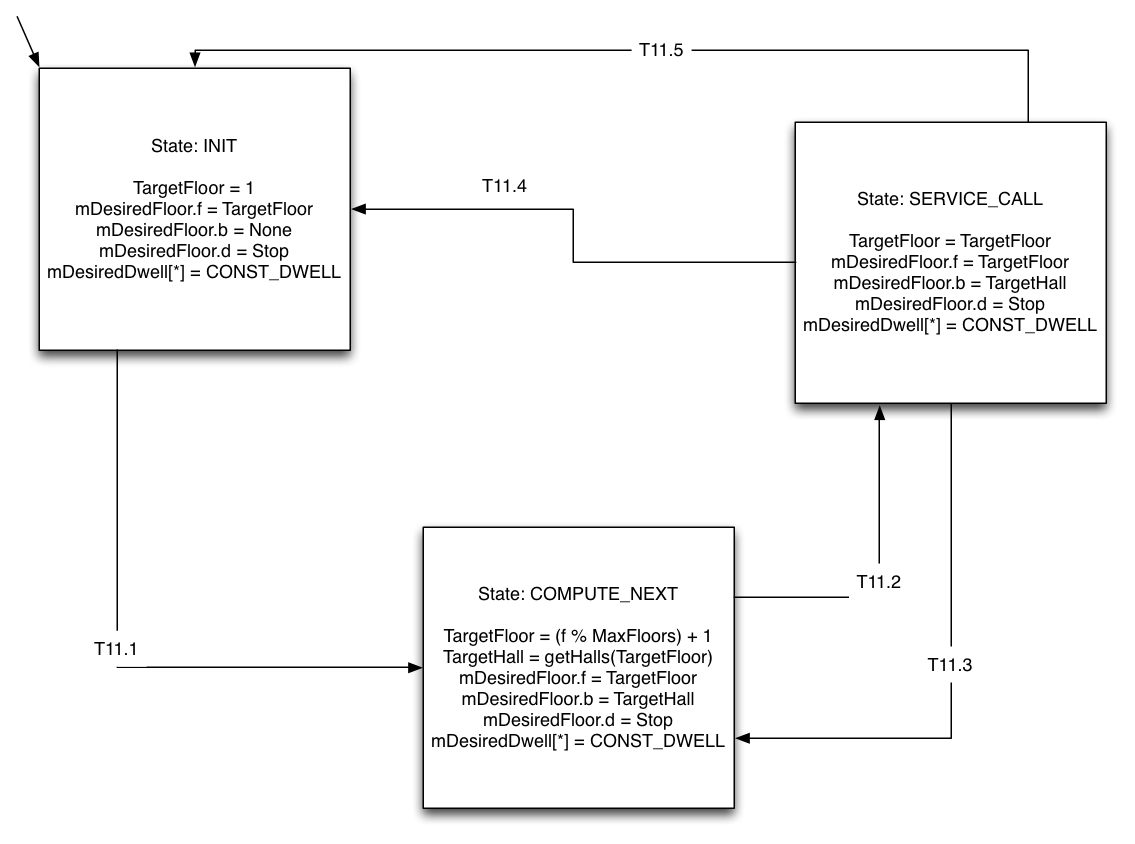
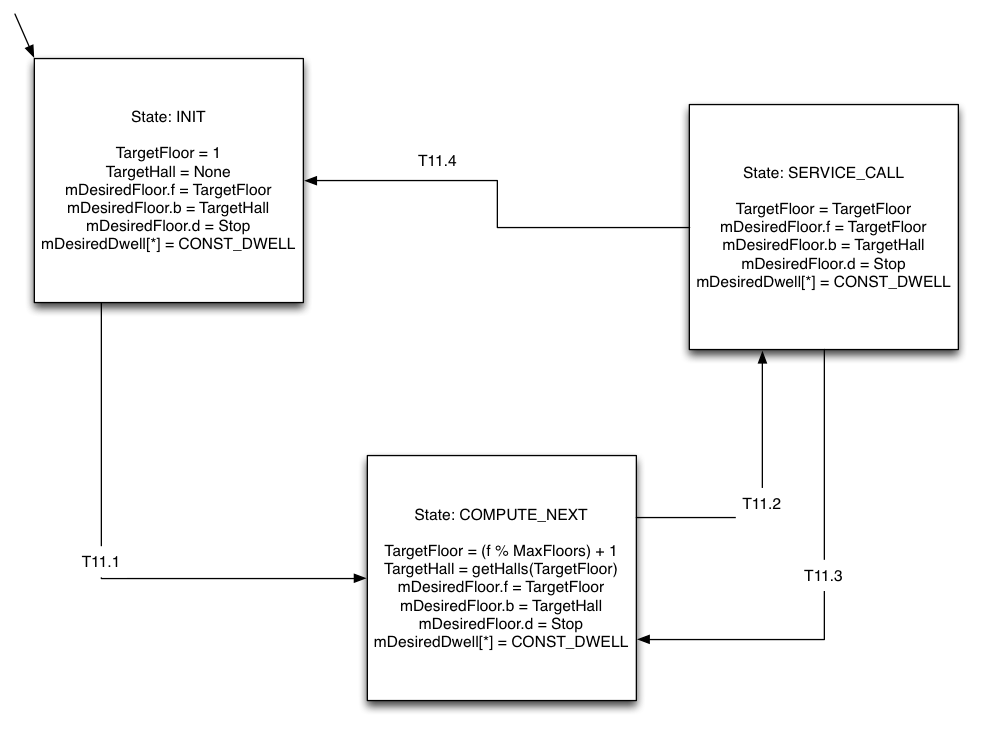
Wrote HallCallArray() utility function; modified Dispatcher, updated requirements for Dispatcher

diff --git a/portfolio/reqs/requirements2.html b/portfolio/reqs/requirements2.html
@@ -1101,8 +1101,9 @@
         <tr>
           <td style="vertical-align: top; ">T5.6<br>
           </td>
-          <td style="vertical-align: top; ">mDoorOpened[b,r] == True &amp;&amp;
-            ( mCarWeight(g) &gt;= MaxCarCapacity || mDoorReversal==True )<br>
+          <td style="vertical-align: top; ">mDoorOpened[b,r] == True
+            &amp;&amp; ( mCarWeight(g) &gt;= MaxCarCapacity ||
+            mDoorReversal==True )<br>
           </td>
         </tr>
         <tr>
@@ -1125,8 +1126,8 @@
     <h3>REQUIREMENTS TO STATECHART TRACEABILITY:</h3>
     <p>Completed by: Rajeev Sharma (rdsharma)<br>
     </p>
-    <table style="text-align: left;" border="1" cellpadding="2"
-      cellspacing="2" height="342" width="790">
+    <table style="text-align: left;" height="342" border="1"
+      cellpadding="2" cellspacing="2" width="790">
       <tbody>
         <tr style="font-weight: bold;">
           <td style="vertical-align: top; background-color: rgb(204,
@@ -1759,8 +1760,8 @@
     <br>
     <table style="font-family: Times; letter-spacing: normal; orphans:
       2; text-indent: 0px; text-transform: none; widows: 2;
-      word-spacing: 0px; text-align: left;" border="1" cellpadding="2"
-      cellspacing="2" height="113" width="525">
+      word-spacing: 0px; text-align: left;" height="113" border="1"
+      cellpadding="2" cellspacing="2" width="525">
       <tbody>
         <tr>
           <td style="vertical-align: top; font-weight: bold;
@@ -1860,8 +1861,8 @@
     </span>
     <table style="font-family: Times; letter-spacing: normal; orphans:
       2; text-indent: 0px; text-transform: none; widows: 2;
-      word-spacing: 0px; text-align: left;" border="1" cellpadding="2"
-      cellspacing="2" height="399" width="656">
+      word-spacing: 0px; text-align: left;" height="399" border="1"
+      cellpadding="2" cellspacing="2" width="656">
       <tbody>
         <tr style="font-weight: bold; ">
           <td style="vertical-align: top; background-color: rgb(204,
@@ -2259,8 +2260,8 @@
     <meta charset="utf-8">
     <table style="font-family: Times; letter-spacing: normal; orphans:
       2; text-indent: 0px; text-transform: none; widows: 2;
-      word-spacing: 0px; text-align: left;" border="1" cellpadding="2"
-      cellspacing="2" height="97" width="525">
+      word-spacing: 0px; text-align: left;" height="97" border="1"
+      cellpadding="2" cellspacing="2" width="525">
       <tbody>
         <tr>
           <td style="vertical-align: top; font-weight: bold;
@@ -2475,8 +2476,8 @@
     <table style="font-family: Times; letter-spacing: normal; orphans:
       2; text-indent: 0px; text-transform: none; widows: 2;
       word-spacing: 0px; -webkit-text-size-adjust: auto;
-      -webkit-text-stroke-width: 0px; text-align: left; " border="1"
-      cellpadding="2" cellspacing="2" height="97" width="525">
+      -webkit-text-stroke-width: 0px; text-align: left; " height="97"
+      border="1" cellpadding="2" cellspacing="2" width="525">
       <tbody>
         <tr>
           <td style="vertical-align: top; font-weight: bold;
@@ -2515,8 +2516,8 @@
     <table style="font-family: Times; letter-spacing: normal; orphans:
       2; text-indent: 0px; text-transform: none; widows: 2;
       word-spacing: 0px; -webkit-text-size-adjust: auto;
-      -webkit-text-stroke-width: 0px; text-align: left; " border="1"
-      cellpadding="2" cellspacing="2" height="342" width="790">
+      -webkit-text-stroke-width: 0px; text-align: left; " height="342"
+      border="1" cellpadding="2" cellspacing="2" width="790">
       <tbody>
         <tr style="font-weight: bold; ">
           <td style="vertical-align: top; background-color: rgb(204,
@@ -2758,8 +2759,8 @@
         display: inline !important; float: none; ">Completed by: Jessica
         Tiu (jtiu)<br>
       </span></p>
-    <table style="text-align: left;" border="1" cellpadding="2"
-      cellspacing="2" height="233" width="552">
+    <table style="text-align: left;" height="233" border="1"
+      cellpadding="2" cellspacing="2" width="552">
       <tbody>
         <tr style="font-weight: bold;">
           <td style="vertical-align: top; background-color: rgb(204,
@@ -2930,8 +2931,8 @@
     <img alt="SC_CarPositionControl" src="SC_CarPositionControl.png"
       height="337" width="466"><br>
     <br>
-    <table style="text-align: left;" border="1" cellpadding="2"
-      cellspacing="2" height="58" width="324">
+    <table style="text-align: left;" height="58" border="1"
+      cellpadding="2" cellspacing="2" width="324">
       <tbody>
         <tr>
           <td style="vertical-align: top; font-weight: bold;
@@ -2958,8 +2959,8 @@
         display: inline !important; float: none; ">Completed by: Jesse
         Salazar (jessesal)<br>
       </span></p>
-    <table style="text-align: left;" border="1" cellpadding="2"
-      cellspacing="2" height="86" width="304">
+    <table style="text-align: left;" height="86" border="1"
+      cellpadding="2" cellspacing="2" width="304">
       <tbody>
         <tr style="font-weight: bold;">
           <td style="vertical-align: top; background-color: rgb(204,
@@ -3020,8 +3021,11 @@
     </ul>
     <h3> State: </h3>
     <ul>
-      <li>Target: an integer Floor number for desired Floor, initialized
-        to Lobby = 1. </li>
+      <li>TargetFloor: an integer Floor number for desired Floor,
+        initialized to Lobby = 1. </li>
+      <li>TargetHall: a hallway instance for desired Hallway,
+        initialized to None. <br>
+      </li>
     </ul>
     <h3> CONSTRAINTS: </h3>
     11.1&nbsp;&nbsp;&nbsp; Target shall be a valid Floor number from 1
@@ -3106,8 +3110,8 @@
         -webkit-text-size-adjust: auto; -webkit-text-stroke-width: 0px;
         display: inline !important; float: none; ">Completed by: Jesse
         Salazar (jessesal)</span></p>
-    <table style="text-align: left;" border="1" cellpadding="2"
-      cellspacing="2" height="342" width="790">
+    <table style="text-align: left;" height="342" border="1"
+      cellpadding="2" cellspacing="2" width="790">
       <tbody>
         <tr style="font-weight: bold;">
           <td style="vertical-align: top; background-color: rgb(204,

diff --git a/simulator/code/simulator/elevatorcontrol/Utility.java b/simulator/code/simulator/elevatorcontrol/Utility.java
@@ -18,7 +18,7 @@ import simulator.framework.Elevator;
 import simulator.framework.Hallway;
 import simulator.framework.Harness;
 import simulator.framework.ReplicationComputer;
-import simulator.framework.Side;
+import simulator.framework.Direction;
 import simulator.payloads.CANNetwork.CanConnection;
 import simulator.payloads.CanMailbox;
 import simulator.payloads.CanMailbox.ReadableCanMailbox;
@@ -143,14 +143,144 @@ public class Utility {
         }
     }
 
-    // TODO: Write HallCallArray class
-    public static class HallCallArray {
+    
+    
+	
+	
+	
+	
+	
+	
+	
+	
+	
+	
+	public static class HallCallArray {
+		public final int numFloors = Elevator.numFloors;
+		public HallCallFloorArray[] translatorArray;
+		
         public HallCallArray(CanConnection conn) {
-
+            translatorArray = new HallCallFloorArray[numFloors];
+			
+            for (int floor = 0; floor < numFloors; ++floor) {
+                HallCallFloorArray hcfa = new HallCallFloorArray(floor, conn);
+                translatorArray[floor] = hcfa;
+            }
         }
+		
+		public boolean getAllOff() {
+			for (int floor = 0; floor < numFloors; ++floor) {
+                if ( !translatorArray[floor].getAllOff() ) {
+					return false;
+				}
+            }
+            return true;
+        }
+		
+        public boolean getAllFloorOff(int floor) {
+            return translatorArray[floor].getAllOff();
+        }
+		
+        public boolean getAllFloorHallwayOff(int floor, Hallway hallway) {
+			return translatorArray[floor].getAllHallwayOff(hallway);
+        }
+		public boolean getOff(int floor, Hallway hallway, Direction dir){
+			return translatorArray[floor].getOff(hallway,dir);
+		}
+	}
 
-    }
+	public static class HallCallFloorArray {
+		private final int floor;
+		private HallCallFloorHallwayArray front;
+		private HallCallFloorHallwayArray back;
+		
+		
+		public HallCallFloorArray(int floor, CanConnection conn){
+			this.floor = floor;
+			front = new HallCallFloorHallwayArray(floor, Hallway.FRONT, conn);
+			back = new HallCallFloorHallwayArray(floor, Hallway.BACK, conn);
+			
+		}
+		
+		public boolean getAllOff() {
+			return (front.getAllOff() && back.getAllOff());
+		}
+		public boolean getAllHallwayOff(Hallway hallway){
+			if (hallway == Hallway.BOTH) {
+                return getAllOff();
+            } else if (hallway == Hallway.FRONT) {
+                return front.getAllOff();
+            } else if (hallway == Hallway.BACK) {
+                return back.getAllOff();
+            }
+			return false;
+		}
+		public boolean getOff(Hallway hallway, Direction dir){
+			if (hallway == Hallway.FRONT && dir == Direction.UP) {
+				return (front.up.getValue());
+			}else if (hallway == Hallway.FRONT && dir == Direction.DOWN) {
+				return (front.down.getValue());
+			}else if (hallway == Hallway.BACK && dir == Direction.UP) {
+				return (back.up.getValue());
+			}else if (hallway == Hallway.BACK && dir == Direction.DOWN) {
+				return (back.down.getValue());
+			}
+		}
+		
+	}
+	
+	public static class HallCallFloorHallwayArray {
+		private HallCallCanPayloadTranslator up;
+		private HallCallCanPayloadTranslator down;
+		public final Hallway hallway;
+		public final int floor;
+		
+		public HallCallFloorHallwayArray(int floor, Hallway hallway, CanConnection conn){
+			this.hallway = hallway;
+			this.floor = floor;
+			
+			ReadableCanMailbox m_u = CanMailbox.getReadableCanMailbox(
+					MessageDictionary.HALL_CALL_BASE_CAN_ID + 
+					ReplicationComputer.computeReplicationId(floor, hallway, 
+					Direction.UP));
+			up = new HallCallCanPayloadTranslator(m_u, hallway, Direction.UP);
+			conn.registerTimeTriggered(m_u);
+			
+			ReadableCanMailbox m_d = CanMailbox.getReadableCanMailbox(
+					MessageDictionary.HALL_CALL_BASE_CAN_ID +
+					ReplicationComputer.computeReplicationId(floor, hallway, 
+					Direction.DOWN));
+            down = new HallCallCanPayloadTranslator(m_d, hallway, Direction.DOWN);
+            conn.registerTimeTriggered(m_d);
+			
+		}
+		public boolean getAllOff(){
+			return (up.getValue() && down.getValue());
+		}
+		
+		
+	}
 
+	
+	
+	
+	
+	
+	
+	
+	
+	
+	
+	
+	
+	
+	
+	
+	
+	
+	
+	
+	
     public static class AtFloorArray {
 
         public HashMap<Integer, AtFloorCanPayloadTranslator> networkAtFloorsTranslators = new HashMap<Integer, AtFloorCanPayloadTranslator>();

diff --git a/simulator/code/simulator/elevatorcontrol/Dispatcher.java b/simulator/code/simulator/elevatorcontrol/Dispatcher.java
@@ -169,10 +169,22 @@ public class Dispatcher extends Controller {
         switch (state) {
 
             case STATE_INIT:
-
+				
                 //state actions for DRIVE_STOPPED
-
+				targetFloor = 1;
+				targetHallway = NONE;
+				mDesiredFloor.setFloor(targetFloor);
+				mDesiredFloor.setHallway(targetHallway);
+				mDesiredFloor.setDirection(STOP);
+				mDesiredDwellBack.set(CONST_DWELL);
+				mDesiredDwellFront.set(CONST_DWELL);
+				
                 //transitions
+				//#transition 'T11.1'
+				// (mAtFloor[1,front] == True || mAtFloor[1,back] == True) && 
+				//	((any mHallCall[f,b,d] == True) || 
+				//	(any mCarCall[f,b] == True))
+				
                 newState = state;
 
                 break;
